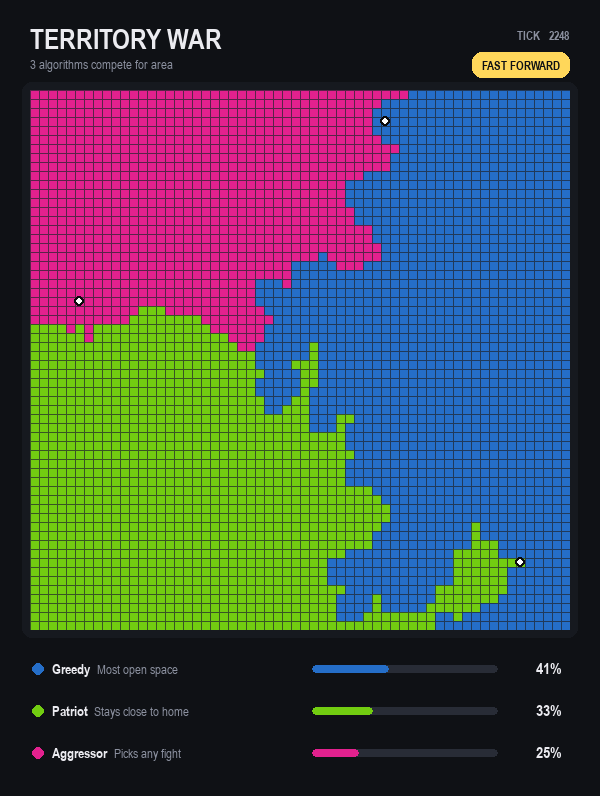
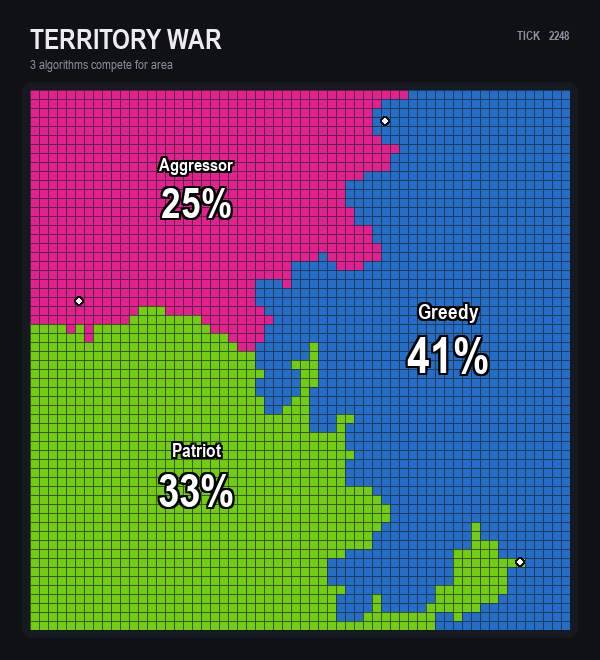
Refactor code structure for improved readability and maintainability

diff --git a/territory/render.py b/territory/render.py
@@ -36,9 +36,9 @@ class Renderer:
         self.grid_w = sim.grid.width * cell_size
         self.grid_h = sim.grid.height * cell_size
 
-        # 사이드바: 한 줄 42px + 위/아래 여백 30px씩
+        # 사이드바 없음 — 영토 위에 직접 라벨 표시. 격자 아래 약간의 패딩만.
         if sidebar_height is None:
-            sidebar_height = len(agents) * 42 + 40
+            sidebar_height = 30
 
         self.margin_x = margin_x
         self.window_w = self.grid_w + 2 * margin_x
@@ -47,6 +47,8 @@ class Renderer:
         self.grid_x = margin_x
         self.grid_y = header_height
         self.sidebar_y = self.grid_y + self.grid_h + 24
+
+        self._label_fonts: dict = {}
 
         pygame.init()
         self.screen = pygame.display.set_mode((self.window_w, self.window_h))
@@ -84,8 +86,69 @@ class Renderer:
         self.screen.fill(BG_COLOR)
         self._draw_header(fast_forward)
         self._draw_grid_panel()
-        self._draw_sidebar()
+        self._draw_area_labels()
         pygame.display.flip()
+
+    def _get_label_font(self, size: int):
+        if size not in self._label_fonts:
+            self._label_fonts[size] = pygame.font.SysFont(
+                'arial,malgungothic', size, bold=True)
+        return self._label_fonts[size]
+
+    def _blit_text_outline(self, text, font, pos,
+                            color=(255, 255, 255), outline=(0, 0, 0)):
+        rendered = font.render(text, True, color)
+        shadow = font.render(text, True, outline)
+        x, y = pos
+        for dx, dy in ((-2, -2), (-2, 0), (-2, 2), (0, -2),
+                       (0, 2), (2, -2), (2, 0), (2, 2)):
+            self.screen.blit(shadow, (x + dx, y + dy))
+        self.screen.blit(rendered, (x, y))
+
+    def _draw_area_labels(self):
+        """5% 이상 점유한 에이전트의 영토 무게중심에 [이름 + %] 라벨."""
+        cells = self.sim.grid.cells
+        total = self.sim.grid.total_cells()
+        areas = self.sim.get_areas()
+        cs = self.cell_size
+
+        for agent in self.agents:
+            area = areas.get(agent.id, 0)
+            pct = 100.0 * area / total if total else 0
+            if pct < 5.0:
+                continue
+
+            ys, xs = (cells == agent.id).nonzero()
+            if len(xs) == 0:
+                continue
+
+            # centroid → 가장 가까운 자기 영토 칸 (라벨이 자기 색 위에 있도록)
+            cx_g = float(xs.mean())
+            cy_g = float(ys.mean())
+            dists = (xs - cx_g) ** 2 + (ys - cy_g) ** 2
+            i = int(dists.argmin())
+            gx, gy = int(xs[i]), int(ys[i])
+
+            px = self.grid_x + gx * cs + cs // 2
+            py = self.grid_y + gy * cs + cs // 2
+
+            # 폰트 크기: 영토 크기에 비례
+            big_size = int(min(54, max(22, 16 + (area ** 0.5) * 0.9)))
+            small_size = max(11, int(big_size * 0.42))
+            big = self._get_label_font(big_size)
+            small = self._get_label_font(small_size)
+
+            pct_text = f'{pct:.0f}%'
+            name_text = agent.name
+            pct_w, pct_h = big.size(pct_text)
+            name_w, name_h = small.size(name_text)
+
+            # 위: 이름, 아래: 큰 비율
+            name_pos = (px - name_w // 2, py - pct_h // 2 - name_h - 2)
+            pct_pos = (px - pct_w // 2, py - pct_h // 2)
+
+            self._blit_text_outline(name_text, small, name_pos)
+            self._blit_text_outline(pct_text, big, pct_pos)
 
     def _draw_header(self, fast_forward: bool):
         title = self.font_title.render('TERRITORY WAR', True, TEXT_PRIMARY)